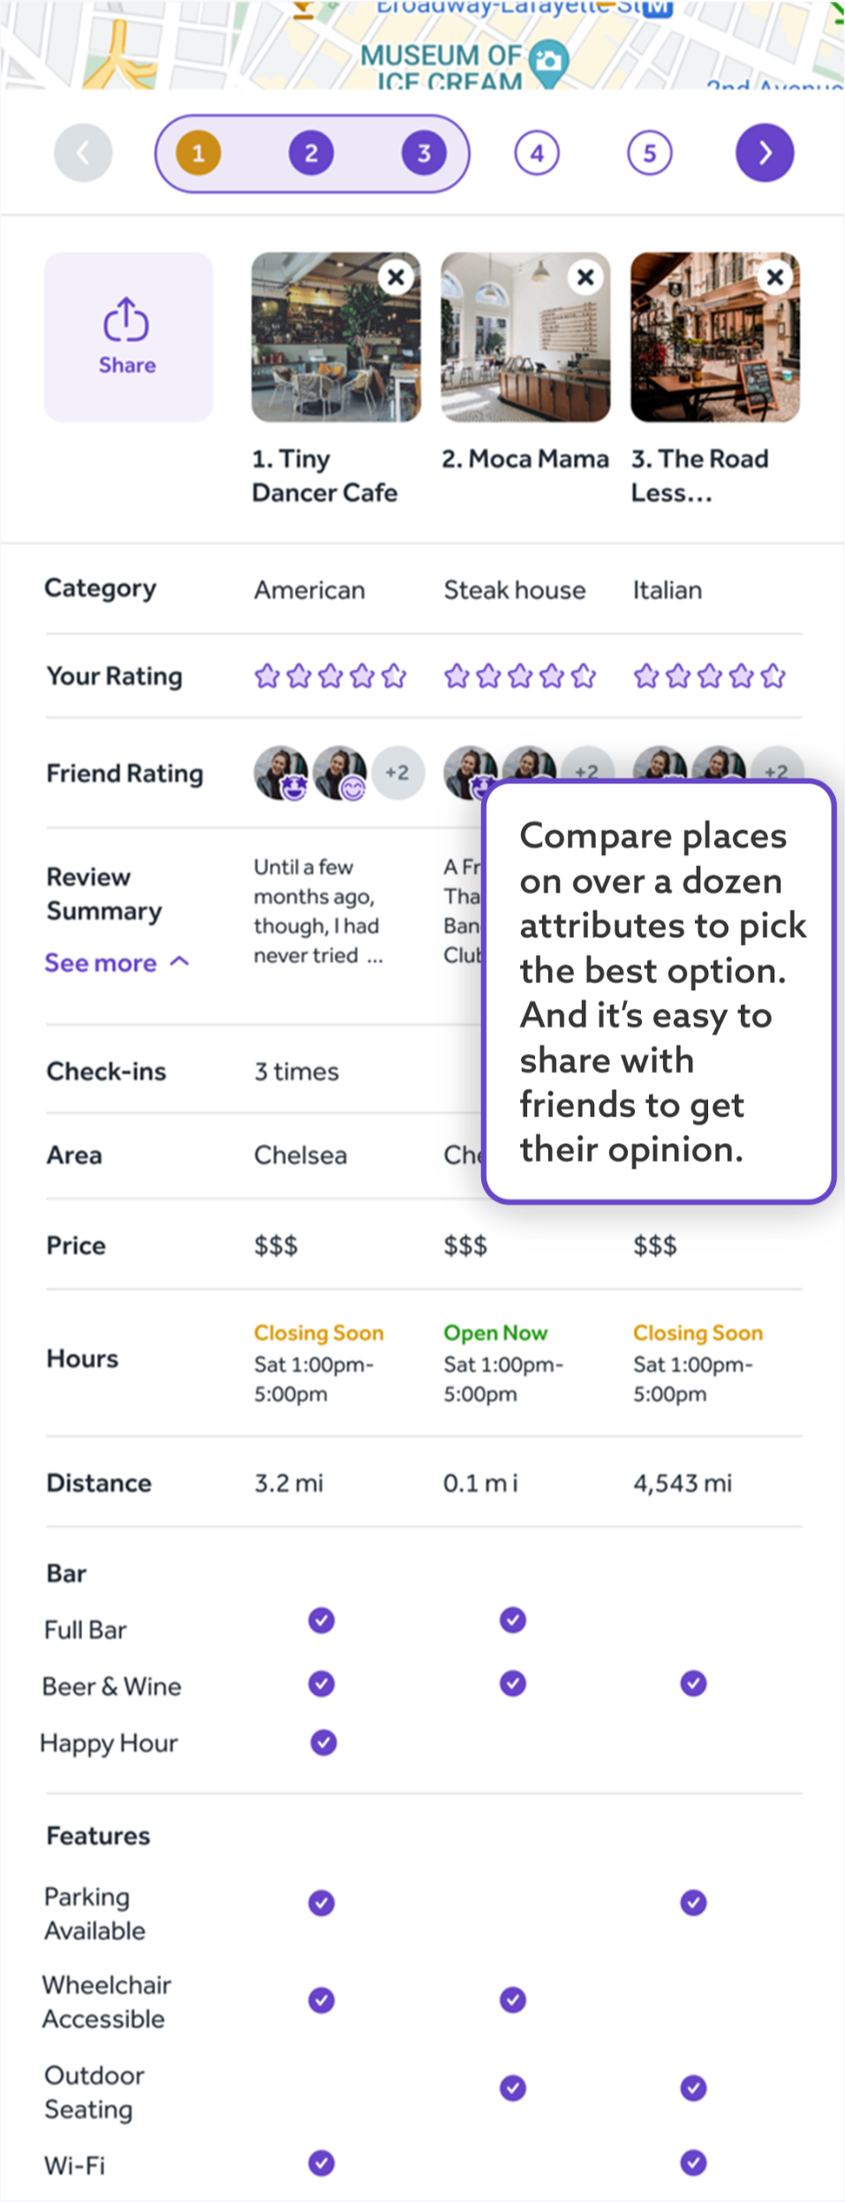
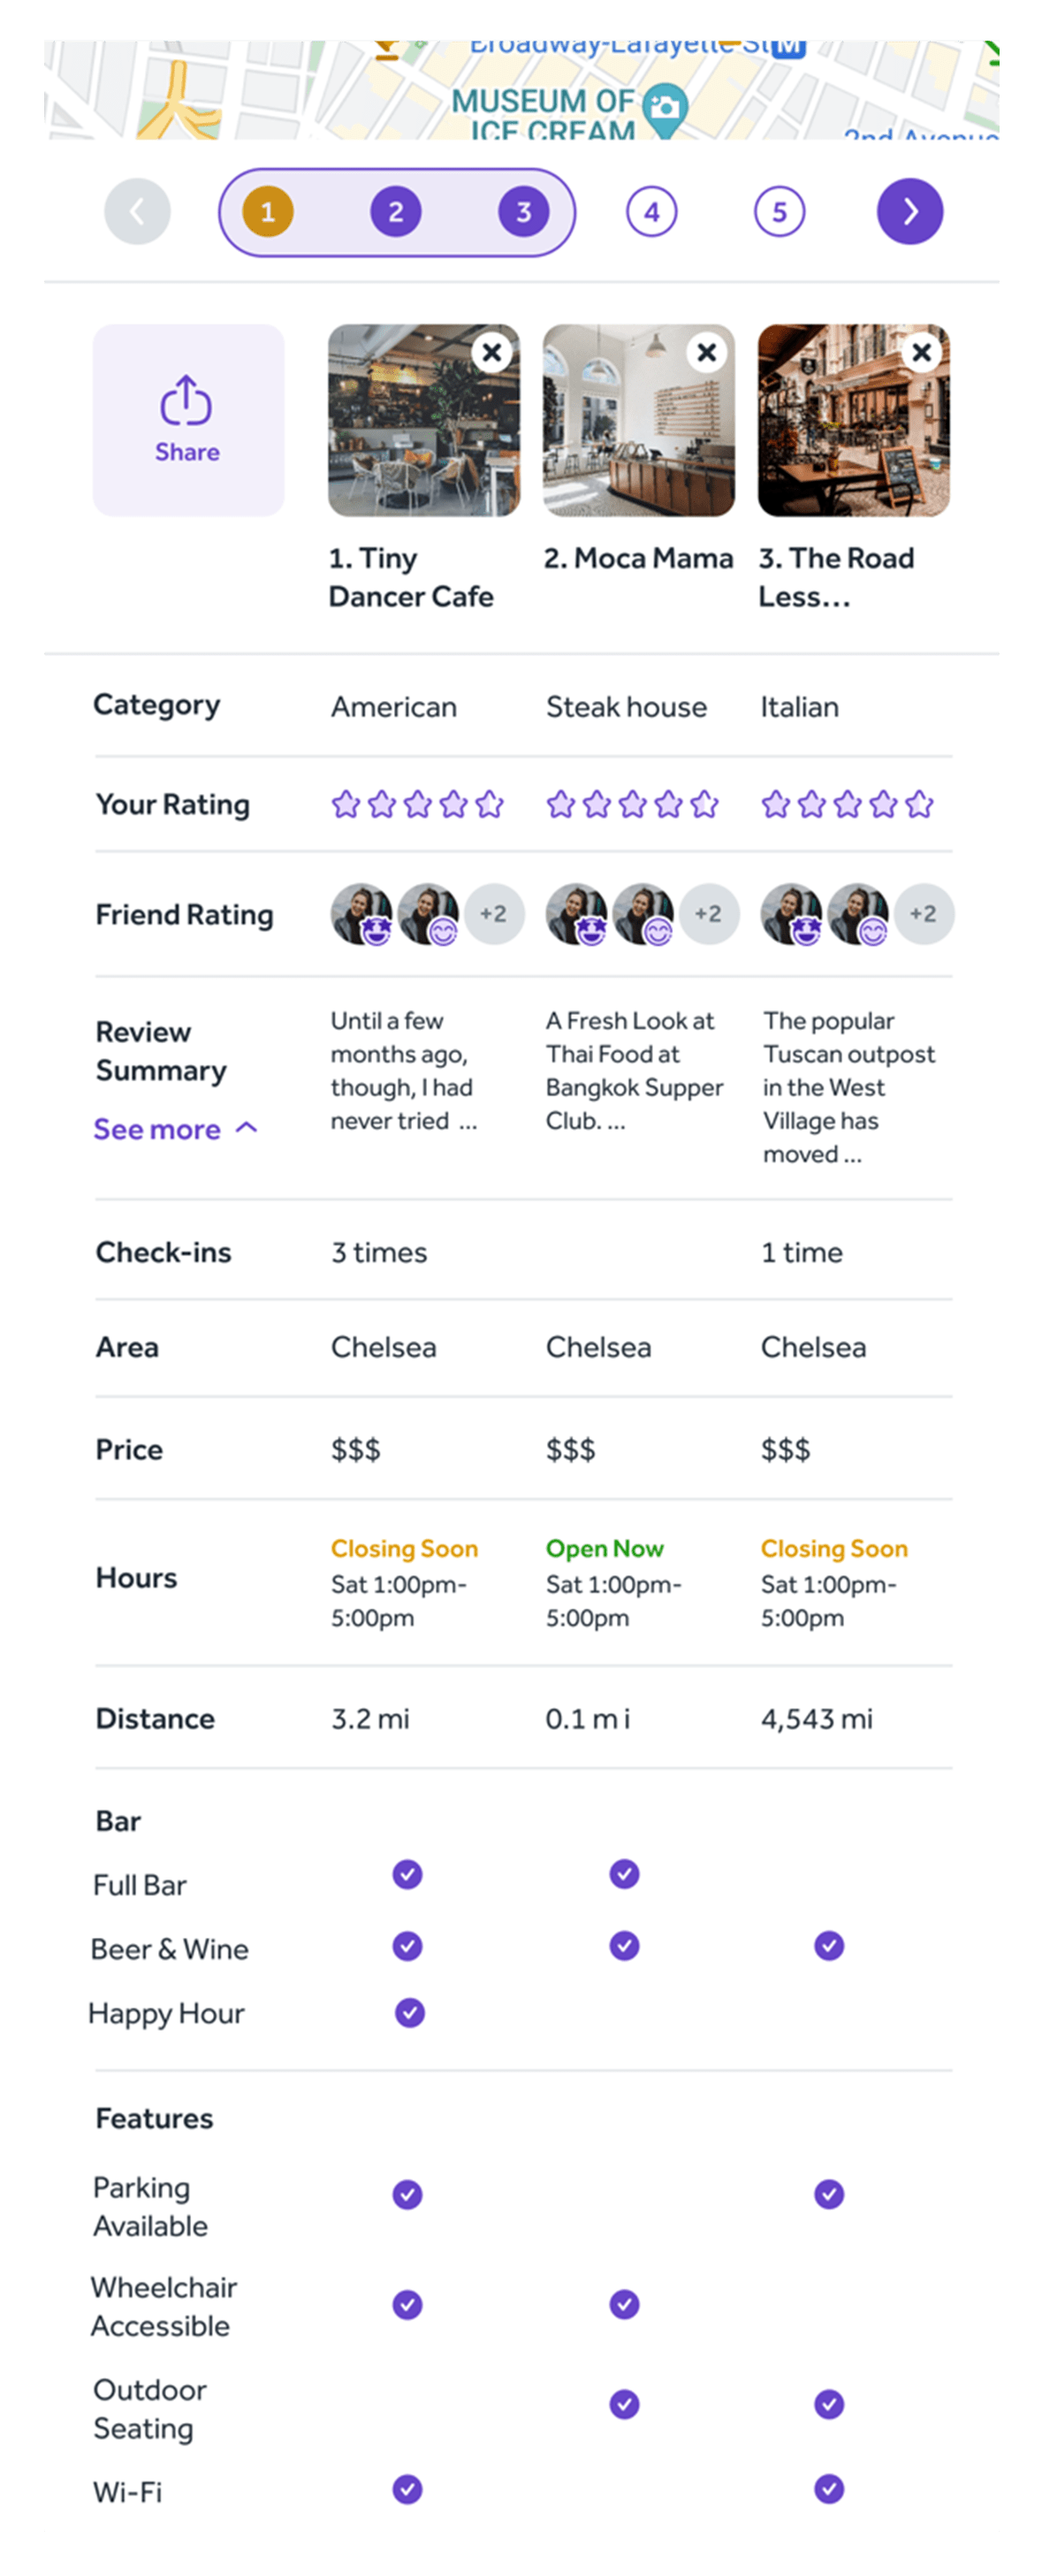
feedback fixes

diff --git a/index.html b/index.html
@@ -81,6 +81,7 @@
                       <div class="colect-restaurant-card-main-img-container">
                           <div class="colect-restaurant-card-main-img"></div>
                       </div>
+                      <p class="collect-restaurant-text">Just tap to add to your<br/>"Want to Try" album</p>
                   </div>
 
                   <div class="colect-modal-card-main">
@@ -118,15 +119,15 @@
                     <div class="friend-image-container">
                         <div id="friend-image" class="friend-image"></div>
                     </div>
-                    <p class="friend-sub-header">Connect with friends and share favorite <br/> albums for instant inspiration from a source <br/> you trust.</p>
+                    <p class="friend-sub-header text-center">Connect with friends and share favorite <br/> albums for instant inspiration from a source <br/> you trust.</p>
                  </div>
                   <div>
                      <img src="./assets/Album-following.png" class="responsive-img" alt="Album Following" />
-                     <p class="friend-sub-header-small">When browsing and searching, you'll<br/>your friend's trusted review first.</p>
+                     <p class="friend-sub-header-small text-center">When browsing and searching, you'll<br/>your friend's trusted review first.</p>
                     <img src="./assets/Friend-rating.png" class="responsive-img" alt="Friend Rating" />
                  </div>
                  <div class="friend-footer">
-                     <p class="friend-sub-header-small">Your <b class="extra-bold">taste buds</b> (aka your foodie friends)<br/> are just a tap away.</p>
+                     <p class="friend-sub-header-small text-center">Your <b class="extra-bold">taste buds</b> (aka your foodie friends)<br/> are just a tap away.</p>
                      <button class="button-large" onclick="switchTab('critics')">Critics' Choices
                         <svg width="18" height="18" viewBox="0 0 24 24" fill="none" xmlns="http://www.w3.org/2000/svg">
                             <path d="M9 18L15 12L9 6" stroke="white" stroke-width="2" stroke-linecap="round" stroke-linejoin="round"/>
@@ -141,8 +142,8 @@
             content = `
                    <div class="friend-container">
                  <div>
-                    <p class="friend-header">Pro reviews a tap away</p>
-                    <p class="friend-sub-header">We've pulled together reviews from top critics<br/>like Michelin Guide, Eater, New York Times,<br/>and more</p>
+                    <p class="friend-header">Professional reviews & ratings at your fingertips</p>
+                    <p class="friend-sub-header text-center">We've pulled together reviews from top critics<br/>like Michelin Guide, Eater, New York Times,<br/>and more</p>
                  </div>
                   <div>
                      <img src="./assets/Critics-publications.png" class="responsive-img" alt="Album Following" />
@@ -172,9 +173,9 @@
                       <p class="checkin-header memories-font-size">Memories.</p>
                  </div>
                   <div>
-                     <p class="friend-sub-header-small checkin-text">Use <b>Check-in</b> to build your personal food map</br>and remember standout places.</p>
+                     <p class="friend-sub-header-small checkin-text text-center">Use <b>Check-in</b> to build your personal food map</br>and remember standout places.</p>
                      <img src="./assets/Checkin-modal.png" class="responsive-img" alt="Album Following" />
-                     <p class="friend-sub-header-small checkin-text-two">Add a <b>memory</b> - and <b>tag</b> the friends that <br/>made it memorable.</p>
+                     <p class="friend-sub-header-small checkin-text-two text-center">Add a <b>memory</b> - and <b>tag</b> the friends that <br/>made it memorable.</p>
                       <img src="./assets/Check-in-tab.png" class="responsive-img" alt="Album Following" />
                  </div>
                  <div class="friend-footer">
@@ -196,18 +197,26 @@
                     <div class="compare-image-container">
                         <div id="comapre-image" class="comapre-image"></div>
                     </div>
-                    <p class="friend-sub-header">Click the compare button on place you're<br/>Considering</p>
+                    <p class="friend-sub-header text-center">Click the compare button on places you’re considering.</p>
                  </div>
                   <div>
-                     <img src="./assets/Compare-button.png" class="responsive-img" alt="Album Following" />
-                     <p class="comapre-sub-header-small">And when you're ready, view <br/>you're options side-by-side.</p>
-                    <img src="./assets/Compare-full.png" class="responsive-img margin-bottom" alt="Friend Rating" />
+                    <img src="./assets/Compare-button.png" class="responsive-img" alt="Album Following" />
+                    <p class="comapre-sub-header-small text-center">And when you're ready, view <br/>you're options side-by-side.</p>
+                    <div style="position: relative">
+                      <div class="compare-overlay-text">
+                        <p style="margin: 0px;font-size: 12px;text-align: left;color: #333;">
+                          Compare places on over a dozen attributes to pick the best option. And it’s easy to share with friends to get their opinion.
+                        </p>
+                      </div>
+                      <img src="./assets/Compare-full.png" class="responsive-img margin-bottom" alt="Friend Rating" />
+                    </div>
                  </div>
                 </div>
                 `;
             heading = "Compare";
             break;
         }
+
         window.scrollTo({
           top: 0,
           behavior: "smooth",

diff --git a/styles.css b/styles.css
@@ -189,7 +189,7 @@ body::after {
 }
 
 .check-in-image {
-  width: 200px;
+  width: 180px;
   height: 100px;
   margin-left: 29px;
   background-image: url("./assets/Check-in-photo.png");
@@ -289,6 +289,14 @@ body::after {
   padding-left: 3%;
   padding-right: 3%;
 }
+.collect-restaurant-text {
+  position: absolute;
+  font-size: 13px;
+  left: 30px;
+  bottom: 0px;
+  color: #212b36 !important;
+  font-family: "AzoSans", sans-serif !important;
+}
 
 .colect-modal-card-main-img-container {
   width: 100vw !important;
@@ -307,7 +315,8 @@ body::after {
   text-align: start;
   font-size: 13px;
   padding-left: 30px;
-  margin-bottom: 20px;
+  margin-top: 0px;
+  margin-bottom: 10px;
   color: #212b36 !important;
   font-family: "AzoSans", sans-serif !important;
 }
@@ -365,7 +374,7 @@ body::after {
   font-size: 13px;
   color: #212b36 !important;
   text-align: start;
-  margin-top: 0 !important;
+  margin-top: -30px !important;
   font-weight: 500;
   padding-left: 12px;
   margin-left: 50px;
@@ -391,12 +400,12 @@ body::after {
 
 .friend-container {
   padding-top: 20px;
-  background-color: #f9f9f9;
+  background-color: #f4f6f8;
 }
 
 .checkin-container {
   padding-top: 20px;
-  background-color: #f9f9f9;
+  background-color: #f4f6f8;
 }
 
 .check-in-sub-container {
@@ -459,6 +468,9 @@ body::after {
   font-family: "AzoSans", sans-serif !important;
   padding-top: 20px;
 }
+.text-center {
+  text-align: center;
+}
 
 .collect-main {
   border-bottom: 1px solid rgb(212, 212, 212);
@@ -494,4 +506,16 @@ body::after {
 
 .collect-button-height {
   min-height: 60px !important;
+}
+
+.compare-overlay-text {
+  position: absolute;
+  width: 100px;
+  padding: 8px;
+  background: #fff;
+  border-radius: 8px;
+  border: 2px solid #6744c9;
+  right: 30px;
+  top: 34%;
+  box-shadow: -1px -1px 30px -8px rgba(0, 0, 0, 0.75);
 }
